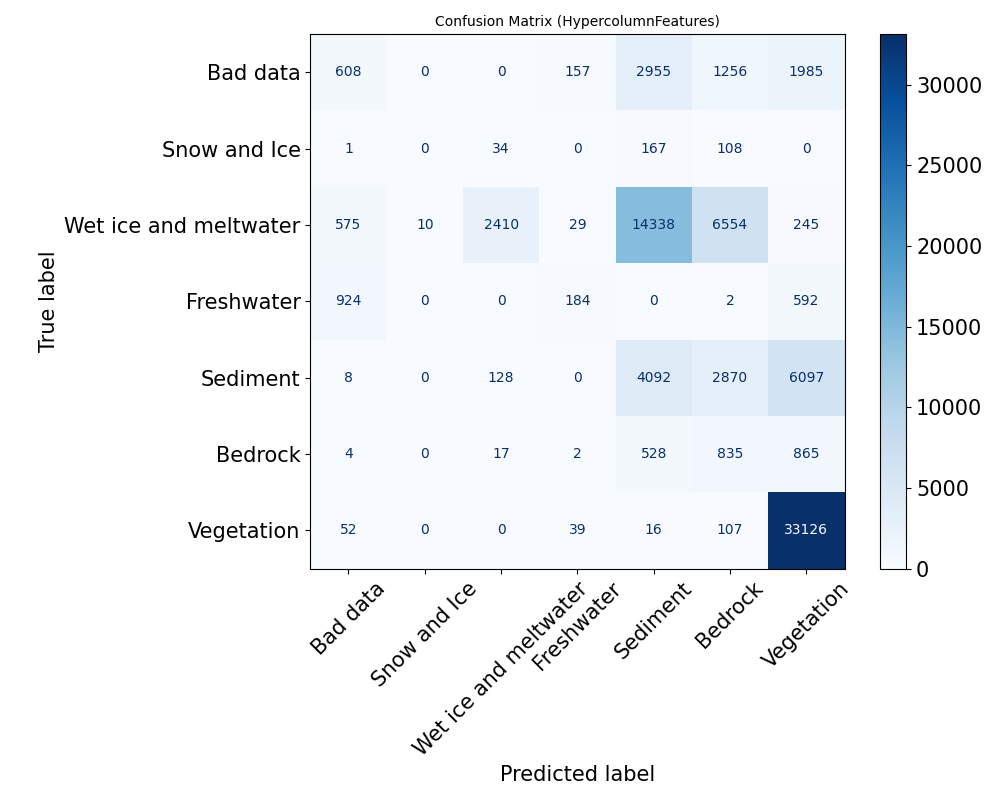
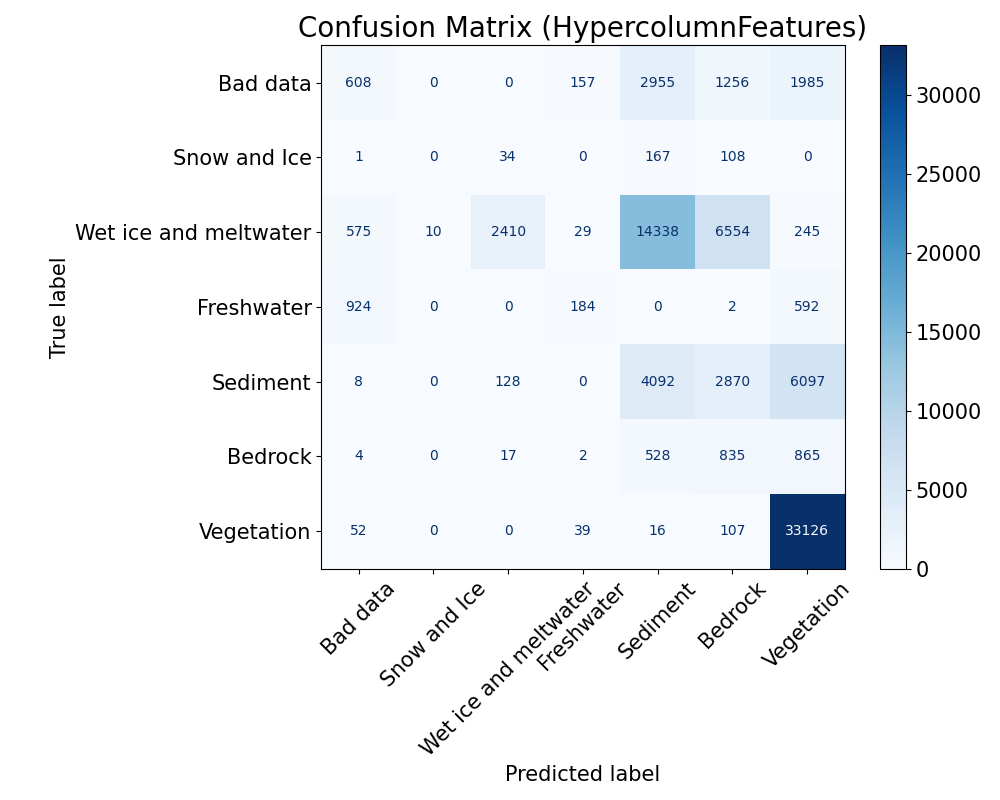
update plot

diff --git a/Function_lib.py b/Function_lib.py
@@ -632,7 +632,7 @@ def visualize(dataLoader,model, path_to_plot, path_to_model, device='cuda', epoc
     BIGGER_SIZE = 20
 
     plt.rc('font', size=SMALL_SIZE)          # controls default text sizes
-    plt.rc('axes', titlesize=SMALL_SIZE)     # fontsize of the axes title
+    plt.rc('axes', titlesize=BIGGER_SIZE)     # fontsize of the axes title
     plt.rc('axes', labelsize=MEDIUM_SIZE)    # fontsize of the x and y labels
     plt.rc('xtick', labelsize=MEDIUM_SIZE)    # fontsize of the tick labels
     plt.rc('ytick', labelsize=MEDIUM_SIZE)    # fontsize of the tick labels
@@ -668,8 +668,6 @@ def visualize(dataLoader,model, path_to_plot, path_to_model, device='cuda', epoc
         unique_label, counts_label = np.unique(labels, return_counts=True)
         label_counter.update(dict(zip(unique_label, counts_label)))
         
-        #_, ax = plt.subplots(nrows=1, ncols=2, figsize = (20, 15))
-        
         labels = labels.to(device)
         
         # plot ground truth
@@ -697,7 +695,6 @@ def visualize(dataLoader,model, path_to_plot, path_to_model, device='cuda', epoc
             ax[idx,1].set_title(f'Prediction: {image_name[0]}')
 
     plt.tight_layout()
-        #plt.savefig(f'{path_to_plot}/{image_name[0]}.png')
     plt.savefig(f'{path_to_plot}/GroundtruthVspred_{file_name}.png')
 
     class_counts_labels = [label_counter.get(i, 0) for i in range(len(label_names))]
@@ -717,17 +714,6 @@ def visualize(dataLoader,model, path_to_plot, path_to_model, device='cuda', epoc
     ax.set_xticks(x)
     ax.set_xticklabels(label_names, rotation=45)
     ax.legend()
-    SMALL_SIZE = 8
-    MEDIUM_SIZE = 10
-    BIGGER_SIZE = 12
-
-    plt.rc('font', size=SMALL_SIZE)          # controls default text sizes
-    plt.rc('axes', titlesize=SMALL_SIZE)     # fontsize of the axes title
-    plt.rc('axes', labelsize=MEDIUM_SIZE)    # fontsize of the x and y labels
-    plt.rc('xtick', labelsize=SMALL_SIZE)    # fontsize of the tick labels
-    plt.rc('ytick', labelsize=SMALL_SIZE)    # fontsize of the tick labels
-    plt.rc('legend', fontsize=SMALL_SIZE)    # legend fontsize
-    plt.rc('figure', titlesize=BIGGER_SIZE)  # fontsize of the figure title
 
     plt.tight_layout()
     plt.savefig(f'{path_to_plot}/Label_distribution_test_{file_name}.png')
@@ -738,14 +724,6 @@ def visualize(dataLoader,model, path_to_plot, path_to_model, device='cuda', epoc
     plt.figure(figsize=(10, 8))
     disp = ConfusionMatrixDisplay(confusion_matrix=conf_matrix, display_labels=label_names)
     disp.plot(cmap=plt.cm.Blues, xticks_rotation=45, ax=plt.gca())
-
-    plt.rc('font', size=SMALL_SIZE)          # controls default text sizes
-    plt.rc('axes', titlesize=SMALL_SIZE)     # fontsize of the axes title
-    plt.rc('axes', labelsize=MEDIUM_SIZE)    # fontsize of the x and y labels
-    plt.rc('xtick', labelsize=SMALL_SIZE)    # fontsize of the tick labels
-    plt.rc('ytick', labelsize=SMALL_SIZE)    # fontsize of the tick labels
-    plt.rc('legend', fontsize=SMALL_SIZE)    # legend fontsize
-    plt.rc('figure', titlesize=BIGGER_SIZE)  # fontsize of the figure title
 
     plt.title(f'Confusion Matrix ({file_name})')
     plt.tight_layout()
